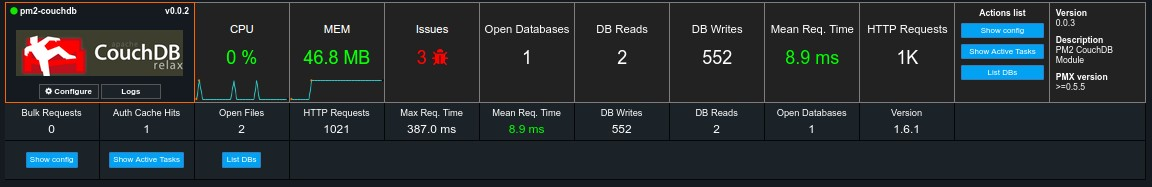
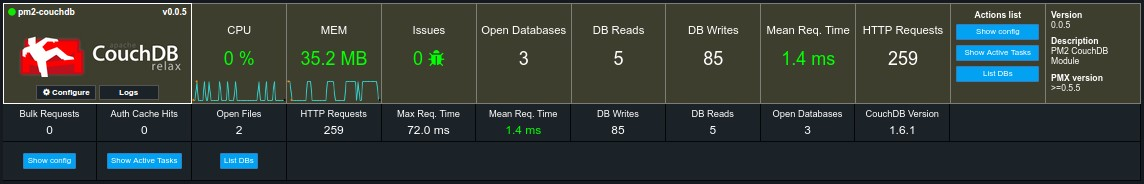
fix module colors

diff --git a/app.js b/app.js
@@ -20,7 +20,7 @@ pmx.initModule({
     // 1 = secondary
     // 2 = main border
     // 3 = secondary border
-    theme: ['#141A1F', '#222222', '#FC6400', '#807C7C'],
+    theme: ['#3E3E2E', '#3E3E2E', '#ffffff', '#7e7e76'],
 
     // Section to show / hide
     el: {
